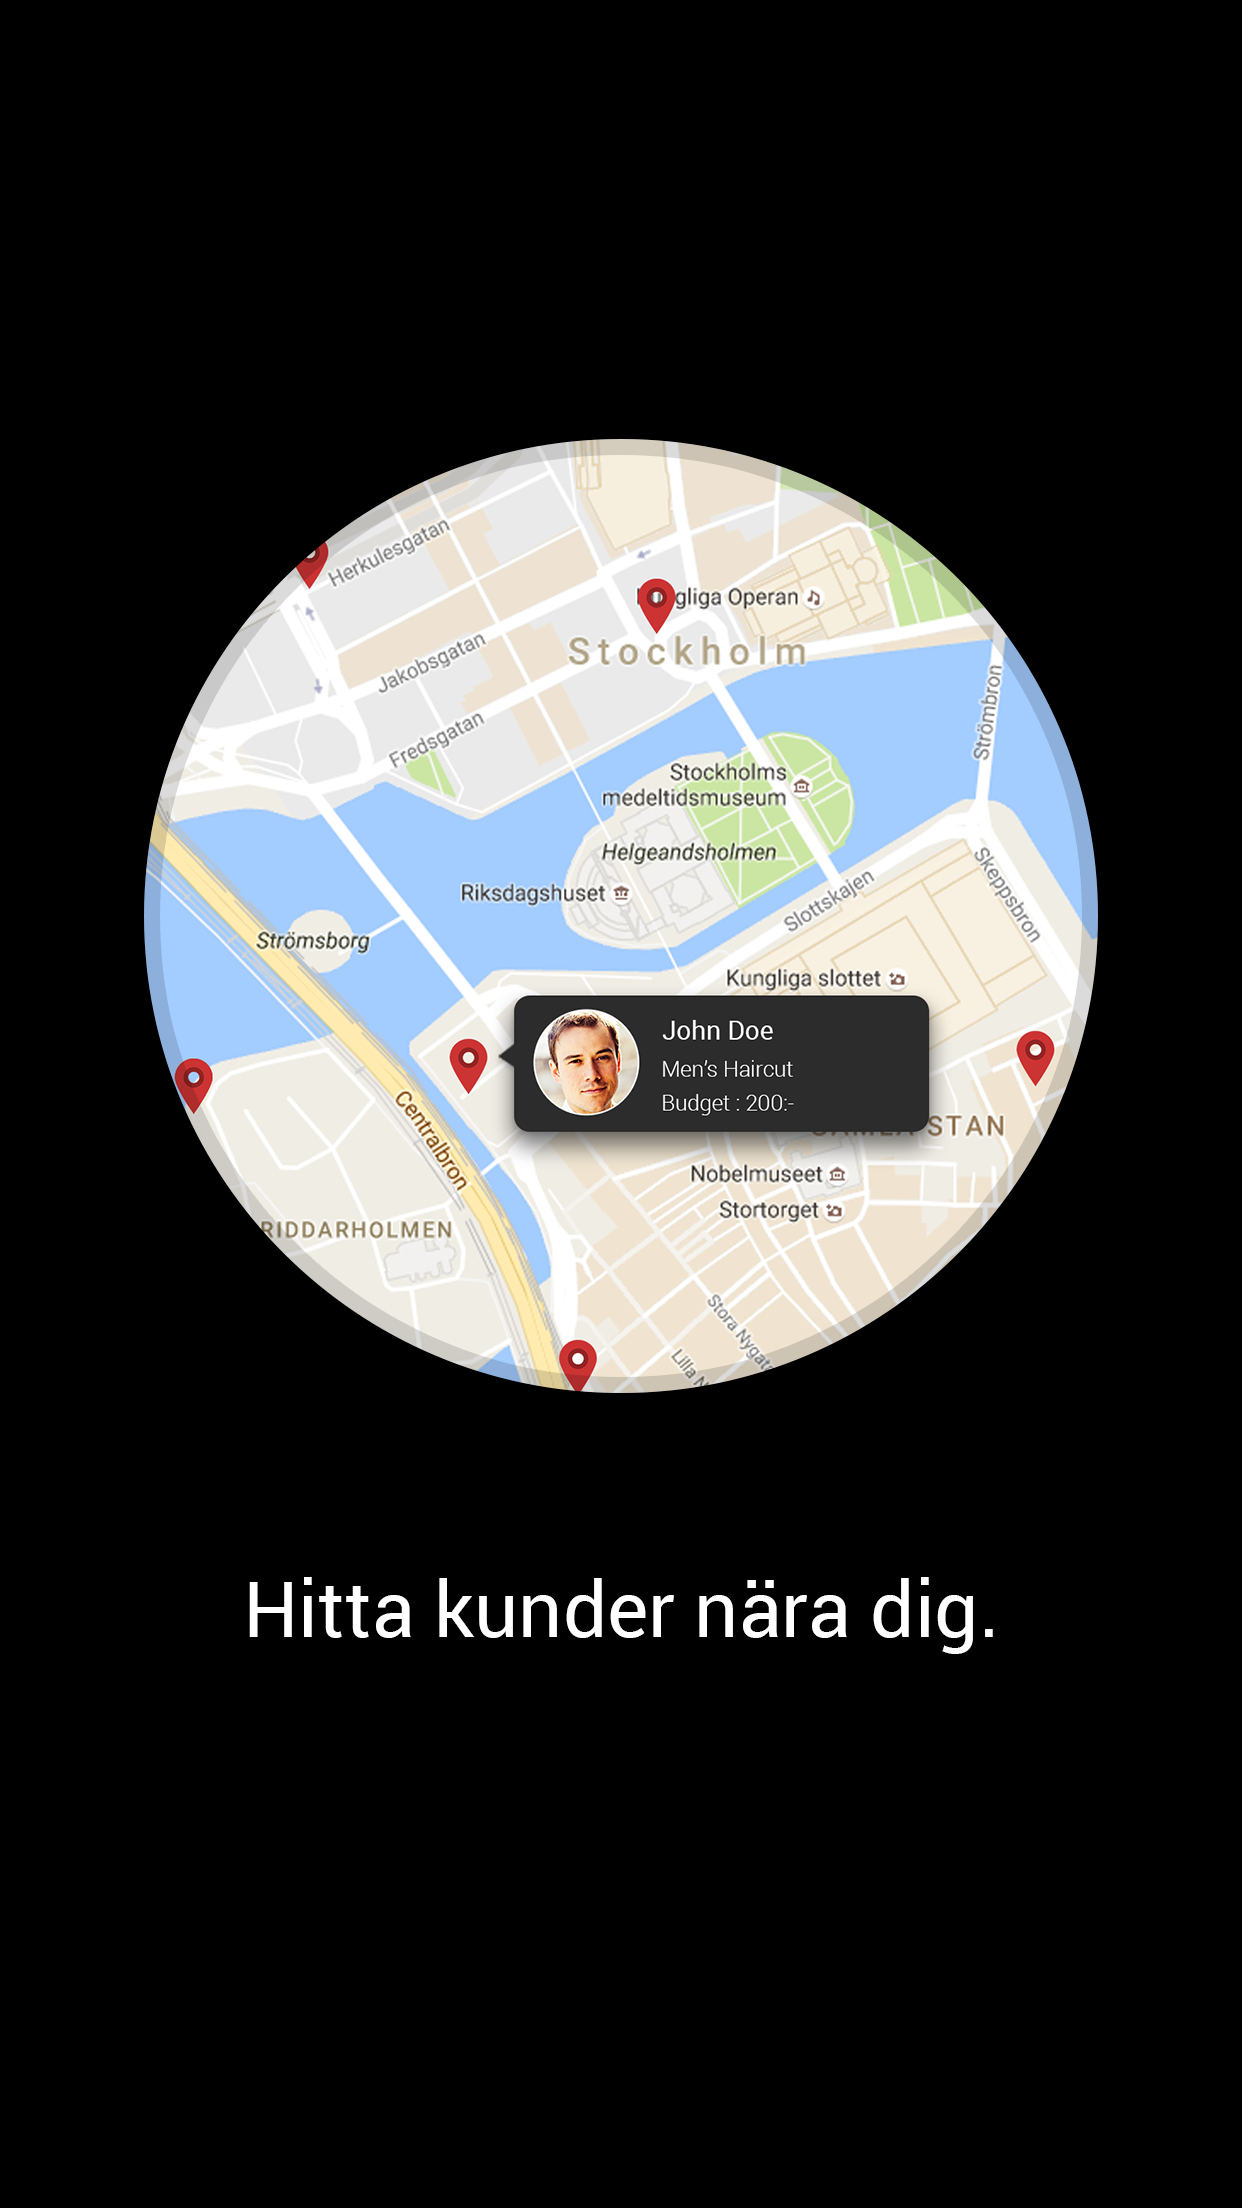
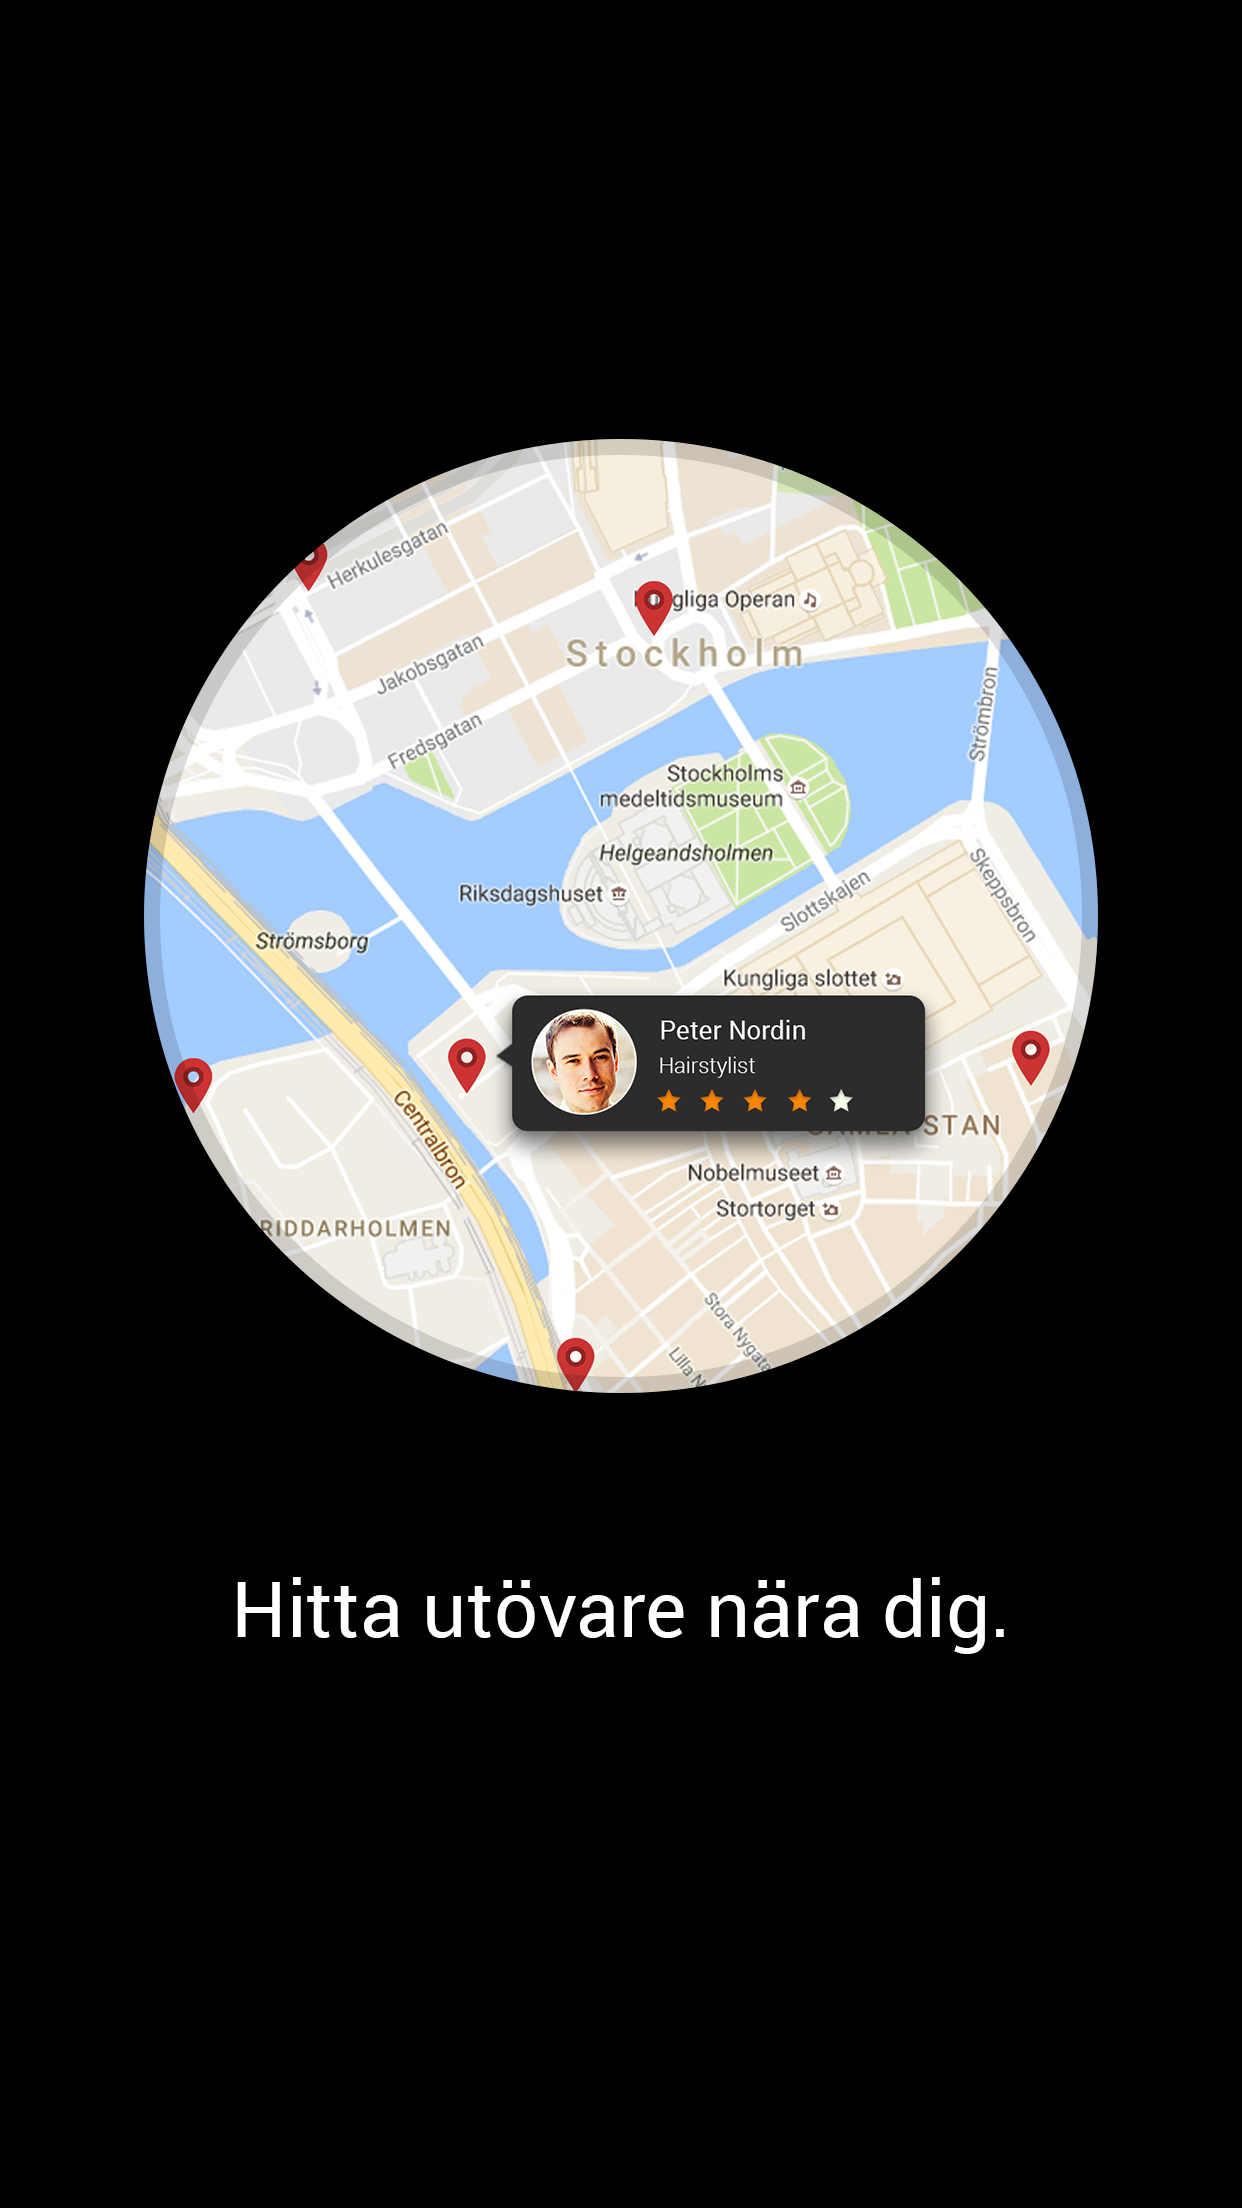
- Customer tutorial 2 image changed  - Chat SDK app key changed

diff --git a/GreySi/ALChatManager.h b/GreySi/ALChatManager.h
@@ -12,7 +12,7 @@
 #import <Applozic/ALConversationService.h>
 #import <Applozic/ALRegisterUserClientService.h>
 
-#define APPLICATION_ID @"d9aa4ad84b2a2b8761e5fd1b6b479314"
+#define APPLICATION_ID @"greysic5fbd2e6e9c58b1f590d189bc92d312e"
 
 
 @interface ALChatManager : NSObject
